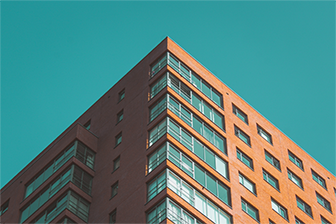
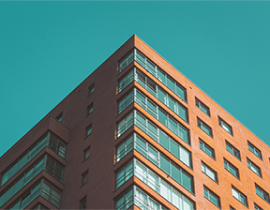
remake

diff --git a/index.html b/index.html
@@ -59,9 +59,10 @@
                 </div>
             </div>
             <div class="col-4">
-                <div class="border">
-                    <a class="https://www.figma.com/file/GrLmdtjkQbAeRwWzGcSc7O/08_HW_2-(Copy)?node-id=1%3A3">
-                        <div class="testalign">
+                <div class="border1">
+                    <a target="_blank"
+                        class="https://www.figma.com/file/GrLmdtjkQbAeRwWzGcSc7O/08_HW_2-(Copy)?node-id=1%3A3">
+                        <div class="testalign1">
                             <img src="imghard/img1-2.png" alt="">
                         </div>
                     </a>
@@ -76,8 +77,9 @@
             </div>
             <div class="col-4">
                 <div class="border">
-                    <a class="https://www.figma.com/file/GrLmdtjkQbAeRwWzGcSc7O/08_HW_2-(Copy)?node-id=1%3A3">
-                        <div class="imgofftop">
+                    <a target="_blank"
+                        class="https://www.figma.com/file/GrLmdtjkQbAeRwWzGcSc7O/08_HW_2-(Copy)?node-id=1%3A3">
+                        <div class="testalign">
                             <img src="imghard/img2.png" alt="">
                         </div>
                     </a>
@@ -87,14 +89,15 @@
                             Website Photos You’ll
                             Ever Need
                         </p>
-                        <img class="lox" src="/imghard/logo.png" alt="">
+                        <img class="lox" src="imghard/logo.png" alt="">
                     </div>
                 </div>
             </div>
             <div class="col-4">
                 <div class="border">
-                    <a href="https://www.figma.com/file/GrLmdtjkQbAeRwWzGcSc7O/08_HW_2-(Copy)?node-id=1%3A3">
-                        <div class="imgofftop">
+                    <a target="_blank"
+                        href="https://www.figma.com/file/GrLmdtjkQbAeRwWzGcSc7O/08_HW_2-(Copy)?node-id=1%3A3">
+                        <div class="testalign">
                             <img src="imghard/img3.png" alt="">
                         </div>
                     </a>
@@ -103,14 +106,15 @@
                         <p>How To Find Design <br>
                             Inspiration `In The Simple <br>
                             Things Around You</p>
-                        <img class="lox" src="/imghard/logo.png" alt="">
+                        <img class="lox" src="imghard/logo.png" alt="">
                     </div>
                 </div>
             </div>
             <div class="col-4">
                 <div class="border">
-                    <a href="https://www.figma.com/file/GrLmdtjkQbAeRwWzGcSc7O/08_HW_2-(Copy)?node-id=1%3A3">
-                        <div class="imgofftop">
+                    <a target="_blank"
+                        href="https://www.figma.com/file/GrLmdtjkQbAeRwWzGcSc7O/08_HW_2-(Copy)?node-id=1%3A3">
+                        <div class="testalign">
                             <img src="imghard/img4.png" alt="">
                         </div>
                     </a>
@@ -119,7 +123,7 @@
                         <p>Growth Hack Your Way to <br>
                             a Successful Freelance <br>
                             Career</p>
-                        <img class="lox" src="/imghard/logo.png" alt="">
+                        <img class="lox" src="imghard/logo.png" alt="">
                     </div>
                 </div>
             </div>

diff --git a/css/style.css b/css/style.css
@@ -5,49 +5,41 @@
 }
 
 hr {
+    margin: 96px auto 30px auto;
     background: #2C4058;
     width: 100px;
-    margin: 0 auto;
 }
 
 .wrapper {
     font-family: 'Roboto', sans-serif;
     text-transform: uppercase;
     font-weight: 500;
-    font-size: 44px;
+    
     color: #2C4058;
     text-align: center;
     margin: 30px 0 80px 0;
 }
 
-.one {
-    height: 450px;
-}
-
 .one img {
-    width: 100%;
-    height: 100%;
+    max-width: 100%;
 }
 
-.three,
-.two {
-    height: 210px;
-}
-
-.three img,
 .two img {
-    width: 100%;
-    height: 100%;
+    max-width: 100%;
 }
 
-.imgbutton{
-    margin-bottom: 26px;
+.three img {
+    max-width: 100%;
 }
 
 .button {
     text-align: center;
     margin-top: 114px;
     margin-bottom: 100px;
+}
+
+.imgbutton {
+    margin-bottom: 25px;
 }
 
 .button input{
@@ -61,17 +53,17 @@ hr {
     padding: 17px 61px;
     cursor: pointer;
     color: #2C4058;
+    transition: 1s;
 }
 
 .button input:hover {
-    box-shadow: 0px 4px 4px rgba(0, 0, 0, 0.25);
+    text-shadow: 1px 2px 3px black;
+    box-shadow: 0px 4px 4px black;
     color: white;
     background: #2C4058;
 }
 
-
 /* hard */
-
 
 .text {
     position: absolute;
@@ -92,26 +84,8 @@ hr {
     color: #FFFFFF;
 }
 
-.photo {
-    height: 540px;
-}
-
 .photo img {
-    height: 100%; 
-    width: 100%;
-}
-
-/* .gradient {
-    background: linear-gradient(180deg, rgba(0, 0, 0, 0) 20.31%, #000000 100%);
-} */
-
-.testalign {
-    height: 251px;
-}
-
-.testalign img {
-    width: 100%;
-    height: 100%;
+    max-width: 100%;
 }
 
 .text1{
@@ -131,17 +105,12 @@ hr {
     font-weight: bold;
     font-size: 22px;
     color: #1D1D1D;
-    margin-bottom: 80px;
+    margin-bottom: 75px;
 }
 
 .imgofftop {
+    max-width: 100%;
     margin-top: 30px;
-    height: 251px;
-}
-
-.imgofftop img {
-    width: 100%;
-    height: 100%;
 }
 
 .text2 {
@@ -154,7 +123,6 @@ hr {
     font-weight: 300;
     font-size: 12px;
     color: #818181;
-
 }
 
 .text2 p {
@@ -162,31 +130,48 @@ hr {
     font-weight: bold;
     font-size: 22px;
     color: #1D1D1D;
-    margin-bottom: 80px;
+    margin-bottom: 75px;
+}
+.testalign1 img{
+    max-width: 100%;
+}
+.testalign img {
+    max-width: 100%;
+}
+
+.border {
+    margin-top: 15px;
 }
 
 .lox{
+    margin: 10px auto 10px auto;
     border: 2px solid white;
     border-radius: 111px;
 }
 
 .border:hover .lox {
-    box-shadow: 0px 4px 4px rgba(0, 0, 0, 0.25);
+    box-shadow: 0px 4px 4px black;
 }
 
-.border {
-    width: 360px;
-    height: 540px;
-    background: white;
-}
 
 .border:hover{
-    box-shadow: 5px 5px 5px rgba(0, 0, 0, 0.25);
+    box-shadow: 5px 5px 5px black;
     background: #2C4058;
     cursor: pointer;
 }
 
 .border:hover h6,
 .border:hover p{
+    color: white;
+}
+
+.border1:hover { 
+    box-shadow: 5px 5px 5px black;
+    background: #2C4058;
+    cursor: pointer;
+}
+
+.border1:hover h6,
+.border1:hover p{
     color: white;
 }
